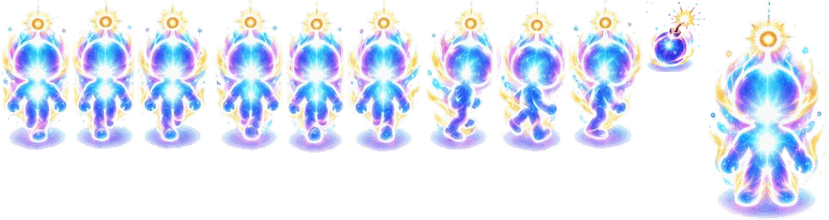
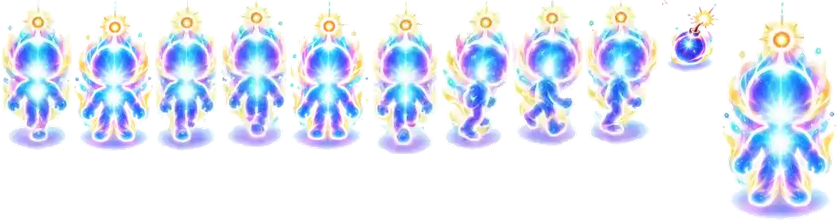
19 nouveaux persos (verrouillés « Bientôt ») et nouvel Astral, depuis les planches du joueur
Marche haut/bas : 1er pas, pose immobile, 2e pas (3e pas non utilisé).

Claude-Session: https://claude.ai/code/session_01JYZA5iE9PycqaXua4PGqJu

diff --git a/jeu.html b/jeu.html
@@ -1257,9 +1257,29 @@ const CHARS = [
   // persos à débloquer en battant le Clown et le Mime (défi 3 de la campagne) ; dessinés avec les planches du joueur (SHEET_SKINS)
   { key: 'clown', name: 'Clown', sheet: 97, camp: 3 },   // sheet : CLOWN_SKIN
   { key: 'mime', name: 'Mime', sheet: 96, camp: 3 },     // sheet : MIME_SKIN
+  // nouveaux persos (planches du joueur, 2026-11-23) : verrouillés (soon) en attendant leur façon de se débloquer
+  { key: 'capuche', name: 'Capuche', soon: true },
+  { key: 'amazone', name: 'Amazone', soon: true },
+  { key: 'ange', name: 'Angelot', soon: true },
+  { key: 'faucheur', name: 'Faucheur', soon: true },
+  { key: 'matou', name: 'Matou', soon: true },
+  { key: 'petardier', name: 'Pétardier', soon: true },
+  { key: 'salpetre', name: 'Salpêtre', soon: true },
+  { key: 'barde', name: 'Barde', soon: true },
+  { key: 'azteque', name: 'Aztèque', soon: true },
+  { key: 'chatbotte', name: 'Chat botté', soon: true },
+  { key: 'gobelin', name: 'Gobelin', soon: true },
+  { key: 'cramoisi', name: 'Cramoisi', soon: true },
+  { key: 'karateka', name: 'Karatéka', soon: true },
+  { key: 'bombot', name: 'Bombot', soon: true },
+  { key: 'pilote', name: 'Pilote', soon: true },
+  { key: 'commando', name: 'Commando', soon: true },
+  { key: 'cowboy', name: 'Cow-boy', soon: true },
+  { key: 'mineur', name: 'Mineur', soon: true },
+  { key: 'dryade', name: 'Dryade', soon: true },
 ];
 const sheetOfSkin = k => SHEET_SKINS[k] || (CHARS[k] && CHARS[k].sheet != null ? SHEET_SKINS[CHARS[k].sheet] : null);
-const CHAR_RECTS = {"robot":{"down":[[0,0,62,126,30.0,126],[64,0,63,132,32.0,132],[129,0,63,127,32.0,127]],"up":[[194,0,64,128,32.0,128],[260,0,62,128,30.0,128],[324,0,61,129,30.0,129]],"right":[[387,0,70,131,35.0,131],[459,0,64,125,31.0,125],[525,0,67,129,33.0,129]],"bomb":[[594,0,58,72,31.0,72]],"big":[[654,0,126,220,64.0,220]]},"renard":{"down":[[0,0,70,128,35.0,128],[72,0,70,129,34.0,129],[144,0,73,123,33.0,123]],"up":[[219,0,69,128,36.0,128],[290,0,70,123,35.0,123],[362,0,74,129,36.0,129]],"right":[[438,0,72,129,34.0,129],[512,0,70,125,34.0,125],[584,0,74,128,36.0,128]],"bomb":[[660,0,60,72,31.0,72]],"big":[[722,0,174,220,83.0,220]]},"mage":{"down":[[0,0,77,130,40.0,130],[79,0,65,129,32.0,129],[146,0,76,130,35.0,130]],"up":[[224,0,75,126,40.0,126],[301,0,74,131,37.0,131],[377,0,81,129,37.0,129]],"right":[[460,0,74,128,35.0,128],[536,0,67,125,32.0,125],[605,0,81,128,37.0,128]],"bomb":[[688,0,63,72,30.0,72]],"big":[[753,0,177,220,90.0,220]]},"gamin":{"down":[[0,0,73,128,39.0,128],[75,0,67,133,32.0,133],[144,0,69,128,31.0,128]],"up":[[215,0,70,128,35.0,128],[287,0,65,125,31.0,125],[354,0,70,132,34.0,132]],"right":[[426,0,76,125,35.0,125],[504,0,74,122,32.0,122],[580,0,74,128,28.0,128]],"bomb":[[656,0,61,72,33.0,72]],"big":[[719,0,146,220,71.0,220]]},"ours":{"down":[[0,0,80,126,43.0,126],[82,0,75,127,38.0,127],[159,0,92,124,38.0,124]],"up":[[253,0,77,121,39.0,121],[332,0,71,129,35.0,129],[405,0,82,127,37.0,127]],"right":[[489,0,81,128,37.0,128],[572,0,72,130,34.0,130],[646,0,81,133,40.0,133]],"bomb":[[729,0,59,72,34.0,72]],"big":[[790,0,241,220,132.0,220]]},"chevalier":{"down":[[0,0,63,128,33.0,128],[65,0,60,129,30.0,129],[127,0,63,129,31.0,129]],"up":[[192,0,59,127,30.0,127],[253,0,61,128,30.0,128],[316,0,62,129,30.0,129]],"right":[[380,0,75,129,39.0,129],[457,0,63,127,31.0,127],[522,0,62,128,30.0,128]],"bomb":[[586,0,59,72,31.0,72]],"big":[[647,0,141,220,70.0,220]]},"sorciere":{"down":[[0,0,79,130,42.0,130],[81,0,69,133,34.0,133],[152,0,83,128,38.0,128]],"up":[[237,0,72,127,38.0,127],[311,0,73,129,37.0,129],[386,0,79,129,37.0,129]],"right":[[467,0,74,128,38.0,128],[543,0,70,118,35.0,118],[615,0,78,126,38.0,126]],"bomb":[[695,0,70,72,42.0,72]],"big":[[767,0,197,220,94.0,220]]},"slime":{"down":[[0,0,89,123,47.0,123],[91,0,80,126,40.0,126],[173,0,85,129,42.0,129]],"up":[[260,0,82,126,42.0,126],[344,0,83,130,41.0,130],[429,0,92,127,46.0,127]],"right":[[523,0,80,129,41.0,129],[605,0,75,129,37.0,129],[682,0,82,129,43.0,129]],"bomb":[[766,0,61,72,33.0,72]],"big":[[829,0,181,220,91.0,220]]},"aigle":{"down":[[0,0,62,128,32.0,128],[64,0,59,128,29.0,128],[125,0,60,128,31.0,128]],"up":[[187,0,59,131,29.0,131],[248,0,60,137,30.0,137],[310,0,59,134,29.0,134]],"right":[[371,0,72,128,36.0,128],[445,0,64,125,29.0,125],[511,0,68,126,34.0,126]],"bomb":[[581,0,59,72,33.0,72]],"big":[[642,0,137,220,68.0,220]]},"ninja":{"down":[[0,0,80,130,43.0,130],[82,0,67,128,34.0,128],[151,0,74,128,39.0,128]],"up":[[227,0,82,128,47.0,128],[311,0,71,129,37.0,129],[384,0,79,130,35.0,130]],"right":[[465,0,83,126,45.0,126],[550,0,72,128,37.0,128],[624,0,72,127,37.0,127]],"bomb":[[698,0,64,72,32.0,72]],"big":[[764,0,175,220,102.0,220]]},"rodeur":{"down":[[0,0,76,129,39.0,129],[78,0,77,128,36.0,128],[157,0,78,128,34.0,128]],"up":[[237,0,73,129,40.0,129],[312,0,72,128,38.0,128],[386,0,89,124,41.0,124]],"right":[[477,0,80,129,41.0,129],[559,0,75,126,36.0,126],[636,0,83,122,40.0,122]],"bomb":[[721,0,54,72,24.0,72]],"big":[[777,0,189,220,87.0,220]]},"astral":{"down":[[0,0,70,150,35.0,150],[72,0,63,149,31.0,149],[137,0,74,150,35.0,150]],"up":[[213,0,71,151,36.0,151],[286,0,59,153,29.0,153],[347,0,75,152,36.0,152]],"right":[[424,0,70,150,35.0,150],[496,0,70,152,34.0,152],[568,0,76,149,36.0,149]],"bomb":[[646,0,59,72,30.0,72]],"big":[[707,0,120,220,59.0,220]]}};
+const CHAR_RECTS = {"robot":{"down":[[0,0,62,126,30.0,126],[64,0,63,132,32.0,132],[129,0,63,127,32.0,127]],"up":[[194,0,64,128,32.0,128],[260,0,62,128,30.0,128],[324,0,61,129,30.0,129]],"right":[[387,0,70,131,35.0,131],[459,0,64,125,31.0,125],[525,0,67,129,33.0,129]],"bomb":[[594,0,58,72,31.0,72]],"big":[[654,0,126,220,64.0,220]]},"renard":{"down":[[0,0,70,128,35.0,128],[72,0,70,129,34.0,129],[144,0,73,123,33.0,123]],"up":[[219,0,69,128,36.0,128],[290,0,70,123,35.0,123],[362,0,74,129,36.0,129]],"right":[[438,0,72,129,34.0,129],[512,0,70,125,34.0,125],[584,0,74,128,36.0,128]],"bomb":[[660,0,60,72,31.0,72]],"big":[[722,0,174,220,83.0,220]]},"mage":{"down":[[0,0,77,130,40.0,130],[79,0,65,129,32.0,129],[146,0,76,130,35.0,130]],"up":[[224,0,75,126,40.0,126],[301,0,74,131,37.0,131],[377,0,81,129,37.0,129]],"right":[[460,0,74,128,35.0,128],[536,0,67,125,32.0,125],[605,0,81,128,37.0,128]],"bomb":[[688,0,63,72,30.0,72]],"big":[[753,0,177,220,90.0,220]]},"gamin":{"down":[[0,0,73,128,39.0,128],[75,0,67,133,32.0,133],[144,0,69,128,31.0,128]],"up":[[215,0,70,128,35.0,128],[287,0,65,125,31.0,125],[354,0,70,132,34.0,132]],"right":[[426,0,76,125,35.0,125],[504,0,74,122,32.0,122],[580,0,74,128,28.0,128]],"bomb":[[656,0,61,72,33.0,72]],"big":[[719,0,146,220,71.0,220]]},"ours":{"down":[[0,0,80,126,43.0,126],[82,0,75,127,38.0,127],[159,0,92,124,38.0,124]],"up":[[253,0,77,121,39.0,121],[332,0,71,129,35.0,129],[405,0,82,127,37.0,127]],"right":[[489,0,81,128,37.0,128],[572,0,72,130,34.0,130],[646,0,81,133,40.0,133]],"bomb":[[729,0,59,72,34.0,72]],"big":[[790,0,241,220,132.0,220]]},"chevalier":{"down":[[0,0,63,128,33.0,128],[65,0,60,129,30.0,129],[127,0,63,129,31.0,129]],"up":[[192,0,59,127,30.0,127],[253,0,61,128,30.0,128],[316,0,62,129,30.0,129]],"right":[[380,0,75,129,39.0,129],[457,0,63,127,31.0,127],[522,0,62,128,30.0,128]],"bomb":[[586,0,59,72,31.0,72]],"big":[[647,0,141,220,70.0,220]]},"sorciere":{"down":[[0,0,79,130,42.0,130],[81,0,69,133,34.0,133],[152,0,83,128,38.0,128]],"up":[[237,0,72,127,38.0,127],[311,0,73,129,37.0,129],[386,0,79,129,37.0,129]],"right":[[467,0,74,128,38.0,128],[543,0,70,118,35.0,118],[615,0,78,126,38.0,126]],"bomb":[[695,0,70,72,42.0,72]],"big":[[767,0,197,220,94.0,220]]},"slime":{"down":[[0,0,89,123,47.0,123],[91,0,80,126,40.0,126],[173,0,85,129,42.0,129]],"up":[[260,0,82,126,42.0,126],[344,0,83,130,41.0,130],[429,0,92,127,46.0,127]],"right":[[523,0,80,129,41.0,129],[605,0,75,129,37.0,129],[682,0,82,129,43.0,129]],"bomb":[[766,0,61,72,33.0,72]],"big":[[829,0,181,220,91.0,220]]},"aigle":{"down":[[0,0,62,128,32.0,128],[64,0,59,128,29.0,128],[125,0,60,128,31.0,128]],"up":[[187,0,59,131,29.0,131],[248,0,60,137,30.0,137],[310,0,59,134,29.0,134]],"right":[[371,0,72,128,36.0,128],[445,0,64,125,29.0,125],[511,0,68,126,34.0,126]],"bomb":[[581,0,59,72,33.0,72]],"big":[[642,0,137,220,68.0,220]]},"ninja":{"down":[[0,0,80,130,43.0,130],[82,0,67,128,34.0,128],[151,0,74,128,39.0,128]],"up":[[227,0,82,128,47.0,128],[311,0,71,129,37.0,129],[384,0,79,130,35.0,130]],"right":[[465,0,83,126,45.0,126],[550,0,72,128,37.0,128],[624,0,72,127,37.0,127]],"bomb":[[698,0,64,72,32.0,72]],"big":[[764,0,175,220,102.0,220]]},"rodeur":{"down":[[0,0,76,129,39.0,129],[78,0,77,128,36.0,128],[157,0,78,128,34.0,128]],"up":[[237,0,73,129,40.0,129],[312,0,72,128,38.0,128],[386,0,89,124,41.0,124]],"right":[[477,0,80,129,41.0,129],[559,0,75,126,36.0,126],[636,0,83,122,40.0,122]],"bomb":[[721,0,54,72,24.0,72]],"big":[[777,0,189,220,87.0,220]]},"astral":{"down":[[0,0,72,150,36.0,150],[74,0,79,151,39.0,151],[155,0,62,151,30.0,151]],"up":[[219,0,68,147,35.0,147],[289,0,81,150,39.0,150],[372,0,66,154,32.0,154]],"right":[[440,0,70,150,34.0,150],[512,0,71,146,34.0,146],[585,0,75,145,35.0,145]],"bomb":[[662,0,58,72,33.0,72]],"big":[[722,0,115,220,58.0,220]]},"capuche":{"down":[[0,0,61,129,30.0,129],[63,0,63,129,31.0,129],[128,0,62,129,31.0,129]],"up":[[192,0,58,129,30.0,129],[252,0,61,129,30.0,129],[315,0,59,129,29.0,129]],"right":[[376,0,68,127,29.0,127],[446,0,64,126,28.0,126],[512,0,66,127,28.0,127]],"bomb":[[580,0,52,72,24.0,72]],"big":[[634,0,107,220,53.0,220]]},"amazone":{"down":[[0,0,74,132,37.0,132],[76,0,78,132,38.0,132],[156,0,67,132,33.0,132]],"up":[[225,0,66,126,33.0,126],[293,0,74,126,36.0,126],[369,0,67,126,32.0,126]],"right":[[438,0,75,130,35.0,130],[515,0,72,127,34.0,127],[589,0,72,127,34.0,127]],"bomb":[[663,0,49,72,24.0,72]],"big":[[714,0,130,220,64.0,220]]},"ange":{"down":[[0,0,73,126,37.0,126],[75,0,84,128,42.0,128],[161,0,70,130,34.0,130]],"up":[[233,0,70,125,35.0,125],[305,0,82,127,41.0,127],[389,0,69,129,34.0,129]],"right":[[460,0,74,128,35.0,128],[536,0,70,127,33.0,127],[608,0,72,129,34.0,129]],"bomb":[[682,0,53,72,24.0,72]],"big":[[737,0,145,220,72.0,220]]},"faucheur":{"down":[[0,0,76,131,39.0,131],[78,0,88,130,44.0,130],[168,0,75,129,38.0,129]],"up":[[245,0,72,126,35.0,126],[319,0,79,127,39.0,127],[400,0,68,129,34.0,129]],"right":[[470,0,78,129,39.0,129],[550,0,77,127,39.0,127],[629,0,78,124,39.0,124]],"bomb":[[709,0,57,72,24.0,72]],"big":[[768,0,150,220,76.0,220]]},"matou":{"down":[[0,0,77,129,39.0,129],[79,0,84,129,43.0,129],[165,0,76,129,38.0,129]],"up":[[243,0,76,127,37.0,127],[321,0,83,130,41.0,130],[406,0,74,132,37.0,132]],"right":[[482,0,82,130,39.0,130],[566,0,81,130,38.0,130],[649,0,82,125,39.0,125]],"bomb":[[733,0,52,72,24.0,72]],"big":[[787,0,144,220,74.0,220]]},"petardier":{"down":[[0,0,68,130,34.0,130],[70,0,76,130,37.0,130],[148,0,68,130,35.0,130]],"up":[[218,0,67,128,33.0,128],[287,0,72,128,35.0,128],[361,0,67,128,33.0,128]],"right":[[430,0,75,129,33.0,129],[507,0,75,124,34.0,124],[584,0,72,123,33.0,123]],"bomb":[[658,0,54,72,25.0,72]],"big":[[714,0,128,220,63.0,220]]},"salpetre":{"down":[[0,0,69,128,34.0,128],[71,0,78,128,39.0,128],[151,0,68,128,33.0,128]],"up":[[221,0,72,128,36.0,128],[295,0,78,128,39.0,128],[375,0,73,128,37.0,128]],"right":[[450,0,75,132,35.0,132],[527,0,75,127,34.0,127],[604,0,73,129,35.0,129]],"bomb":[[679,0,53,72,24.0,72]],"big":[[734,0,134,220,67.0,220]]},"barde":{"down":[[0,0,74,129,37.0,129],[76,0,84,131,42.0,131],[162,0,71,133,35.0,133]],"up":[[235,0,75,131,37.0,131],[312,0,80,127,39.0,127],[394,0,70,124,35.0,124]],"right":[[466,0,70,126,34.0,126],[538,0,72,122,37.0,122],[612,0,74,127,38.0,127]],"bomb":[[688,0,56,72,25.0,72]],"big":[[746,0,141,220,71.0,220]]},"azteque":{"down":[[0,0,70,131,36.0,131],[72,0,81,131,41.0,131],[155,0,68,130,35.0,130]],"up":[[225,0,74,127,38.0,127],[301,0,85,128,42.0,128],[388,0,74,128,37.0,128]],"right":[[464,0,69,128,34.0,128],[535,0,69,127,35.0,127],[606,0,70,128,36.0,128]],"bomb":[[678,0,60,72,25.0,72]],"big":[[740,0,135,220,69.0,220]]},"chatbotte":{"down":[[0,0,75,129,37.0,129],[77,0,84,130,41.0,130],[163,0,74,130,37.0,130]],"up":[[239,0,74,129,37.0,129],[315,0,86,129,41.0,129],[403,0,74,129,37.0,129]],"right":[[479,0,81,128,38.0,128],[562,0,76,127,36.0,127],[640,0,78,128,37.0,128]],"bomb":[[720,0,48,72,25.0,72]],"big":[[770,0,143,220,70.0,220]]},"gobelin":{"down":[[0,0,75,129,37.0,129],[77,0,93,130,46.0,130],[172,0,74,131,36.0,131]],"up":[[248,0,73,124,36.0,124],[323,0,88,125,44.0,125],[413,0,74,126,36.0,126]],"right":[[489,0,76,130,37.0,130],[567,0,74,128,34.0,128],[643,0,74,128,36.0,128]],"bomb":[[719,0,69,72,37.0,72]],"big":[[790,0,157,220,78.0,220]]},"cramoisi":{"down":[[0,0,76,128,37.0,128],[78,0,94,129,45.0,129],[174,0,73,129,36.0,129]],"up":[[249,0,77,128,40.0,128],[328,0,86,127,45.0,127],[416,0,73,127,37.0,127]],"right":[[491,0,79,128,36.0,128],[572,0,74,125,34.0,125],[648,0,77,128,34.0,128]],"bomb":[[727,0,50,72,24.0,72]],"big":[[779,0,161,220,77.0,220]]},"karateka":{"down":[[0,0,79,128,44.0,128],[81,0,83,129,46.0,129],[166,0,70,130,37.0,130]],"up":[[238,0,69,126,33.0,126],[309,0,77,124,35.0,124],[388,0,68,123,33.0,123]],"right":[[458,0,80,130,42.0,130],[540,0,77,123,39.0,123],[619,0,73,129,37.0,129]],"bomb":[[694,0,53,72,26.0,72]],"big":[[749,0,142,220,79.0,220]]},"bombot":{"down":[[0,0,79,130,40.0,130],[81,0,105,131,52.0,131],[188,0,75,132,38.0,132]],"up":[[265,0,76,125,38.0,125],[343,0,96,126,48.0,126],[441,0,73,127,36.0,127]],"right":[[516,0,72,129,36.0,129],[590,0,71,123,34.0,123],[663,0,73,133,36.0,133]],"bomb":[[738,0,53,72,25.0,72]],"big":[[793,0,177,220,88.0,220]]},"pilote":{"down":[[0,0,69,129,35.0,129],[71,0,70,130,35.0,130],[143,0,68,130,34.0,130]],"up":[[213,0,67,128,32.0,128],[282,0,69,127,35.0,127],[353,0,66,127,32.0,127]],"right":[[421,0,74,128,36.0,128],[497,0,74,126,34.0,126],[573,0,75,128,38.0,128]],"bomb":[[650,0,49,72,24.0,72]],"big":[[701,0,119,220,60.0,220]]},"commando":{"down":[[0,0,70,127,34.0,127],[72,0,77,128,39.0,128],[151,0,66,129,33.0,129]],"up":[[219,0,67,129,34.0,129],[288,0,77,129,38.0,129],[367,0,68,128,34.0,128]],"right":[[437,0,74,128,32.0,128],[513,0,69,127,29.0,127],[584,0,69,128,30.0,128]],"bomb":[[655,0,53,72,24.0,72]],"big":[[710,0,132,220,67.0,220]]},"cowboy":{"down":[[0,0,73,129,36.0,129],[75,0,78,127,38.0,127],[155,0,71,126,36.0,126]],"up":[[228,0,71,131,35.0,131],[301,0,77,130,39.0,130],[380,0,71,130,34.0,130]],"right":[[453,0,76,126,35.0,126],[531,0,78,130,38.0,130],[611,0,80,129,39.0,129]],"bomb":[[693,0,56,72,25.0,72]],"big":[[751,0,135,220,65.0,220]]},"mineur":{"down":[[0,0,71,130,34.0,130],[73,0,82,129,38.0,129],[157,0,70,129,34.0,129]],"up":[[229,0,70,130,35.0,130],[301,0,77,129,38.0,129],[380,0,66,127,32.0,127]],"right":[[448,0,77,129,36.0,129],[527,0,73,124,32.0,124],[602,0,74,126,35.0,126]],"bomb":[[678,0,57,72,35.0,72]],"big":[[737,0,139,220,66.0,220]]},"dryade":{"down":[[0,0,74,129,38.0,129],[76,0,85,129,42.0,129],[163,0,74,129,37.0,129]],"up":[[239,0,75,134,37.0,134],[316,0,85,131,43.0,131],[403,0,70,127,34.0,127]],"right":[[475,0,75,131,36.0,131],[552,0,74,119,34.0,119],[628,0,73,127,34.0,127]],"bomb":[[703,0,59,72,25.0,72]],"big":[[764,0,145,220,73.0,220]]}};
 const charImg = {};
 const SPR_SCALE = 56 / 128;   // une image de marche (128 px) fait 56 px de haut dans l’arène
 const charName = i => (CHARS[i] || CHARS[0]).name;
@@ -1424,10 +1444,10 @@ settings.name2 = cleanNick(settings.name2, 'Joueur 2');
 if (!Number.isInteger(settings.skin) || settings.skin < 0 || settings.skin >= CHARS.length) settings.skin = 0;
 // Persos à débloquer : une fois l'Elo requis atteint, le perso reste débloqué dans ce navigateur (settings.unl)
 if (!settings.unl || typeof settings.unl !== 'object') settings.unl = {};
-const charLockedReal = i => { const ch = CHARS[i]; return !!(ch && !settings.unl[ch.key] && ((ch.elo && !(ELO.me && ELO.me.elo >= ch.elo)) || ch.camp)); };
-const lockText = ch => ch.camp ? `Défi ${ch.camp}` : `${ch.elo} Elo`;
+const charLockedReal = i => { const ch = CHARS[i]; return !!(ch && !settings.unl[ch.key] && ((ch.elo && !(ELO.me && ELO.me.elo >= ch.elo)) || ch.camp || ch.soon)); };
+const lockText = ch => ch.soon ? 'Bientôt' : ch.camp ? `Défi ${ch.camp}` : `${ch.elo} Elo`;
 const charLocked = i => !settings.admin && charLockedReal(i);
-if ((CHARS[settings.skin].elo || CHARS[settings.skin].camp) && !settings.admin && !settings.unl[CHARS[settings.skin].key]) settings.skin = 0;
+if ((CHARS[settings.skin].elo || CHARS[settings.skin].camp || CHARS[settings.skin].soon) && !settings.admin && !settings.unl[CHARS[settings.skin].key]) settings.skin = 0;
 
 // ---------- Expérience et niveaux, par perso (1 à 100), gardés dans le navigateur (settings.xp[clé] = XP total)
 // XP gagnée : 10 par point marqué + 10 par manche jouée (battle royale : 3 points par victime, 1 point par 45 s en vie).
@@ -1775,7 +1795,7 @@ const PTS = [5, 3, 1, 0], POINT_ROUNDS = 3;
 function assignChars(list) {
   const used = new Set(list.filter(p => Number.isInteger(p.skin)).map(p => p.skin));
   // les ordis ne prennent jamais un perso à débloquer
-  const free = CHARS.map((_, i) => i).filter(i => !CHARS[i].elo && !CHARS[i].camp), pool = shuffled(free.filter(i => !used.has(i)));
+  const free = CHARS.map((_, i) => i).filter(i => !CHARS[i].elo && !CHARS[i].camp && !CHARS[i].soon), pool = shuffled(free.filter(i => !used.has(i)));
   for (const p of list) if (!Number.isInteger(p.skin)) p.skin = pool.length ? pool.shift() : free[(Math.random() * free.length) | 0];
 }
 function setPlayers(list) {
@@ -6591,7 +6611,7 @@ function buildCharPicker() {
     b.addEventListener('click', () => {
       const hint = root.querySelector('.pick-hint');
       if (charLocked(i)) {
-        if (hint) { hint.textContent = ch.camp ? `${ch.name} se débloque en battant le Clown et le Mime (défi ${ch.camp} de la campagne).` : `${ch.name} se débloque à ${ch.elo} Elo` + (ELO.me ? ` (tu es à ${ELO.me.elo}).` : ' : joue des parties classées en ligne.'); clearTimeout(hint._t); hint._t = setTimeout(() => { hint.textContent = ''; }, 4000); }
+        if (hint) { hint.textContent = ch.soon ? `${ch.name} arrive bientôt : sa façon de le débloquer n'est pas encore là.` : ch.camp ? `${ch.name} se débloque en battant le Clown et le Mime (défi ${ch.camp} de la campagne).` : `${ch.name} se débloque à ${ch.elo} Elo` + (ELO.me ? ` (tu es à ${ELO.me.elo}).` : ' : joue des parties classées en ligne.'); clearTimeout(hint._t); hint._t = setTimeout(() => { hint.textContent = ''; }, 4000); }
         return;
       }
       if (hint) hint.textContent = '';
@@ -6614,7 +6634,7 @@ function syncCharPicker() {
   charBtns.forEach(({ b, i }) => {
     const lk = charLocked(i);
     b.setAttribute('aria-checked', String(i === settings.skin)); b.classList.toggle('locked', lk);
-    b.setAttribute('aria-label', lk ? `${CHARS[i].name}, à débloquer : ${CHARS[i].camp ? 'défi ' + CHARS[i].camp + ' de la campagne' : CHARS[i].elo + ' Elo'}` : CHARS[i].name);
+    b.setAttribute('aria-label', lk ? `${CHARS[i].name}, à débloquer : ${CHARS[i].soon ? 'bientôt' : CHARS[i].camp ? 'défi ' + CHARS[i].camp + ' de la campagne' : CHARS[i].elo + ' Elo'}` : CHARS[i].name);
     const pr = lk ? 0 : presOf(i);
     b.querySelector('span').textContent = lk ? lockText(CHARS[i]) : CHARS[i].name + (pr ? ` ★${pr}` : '');
   });
